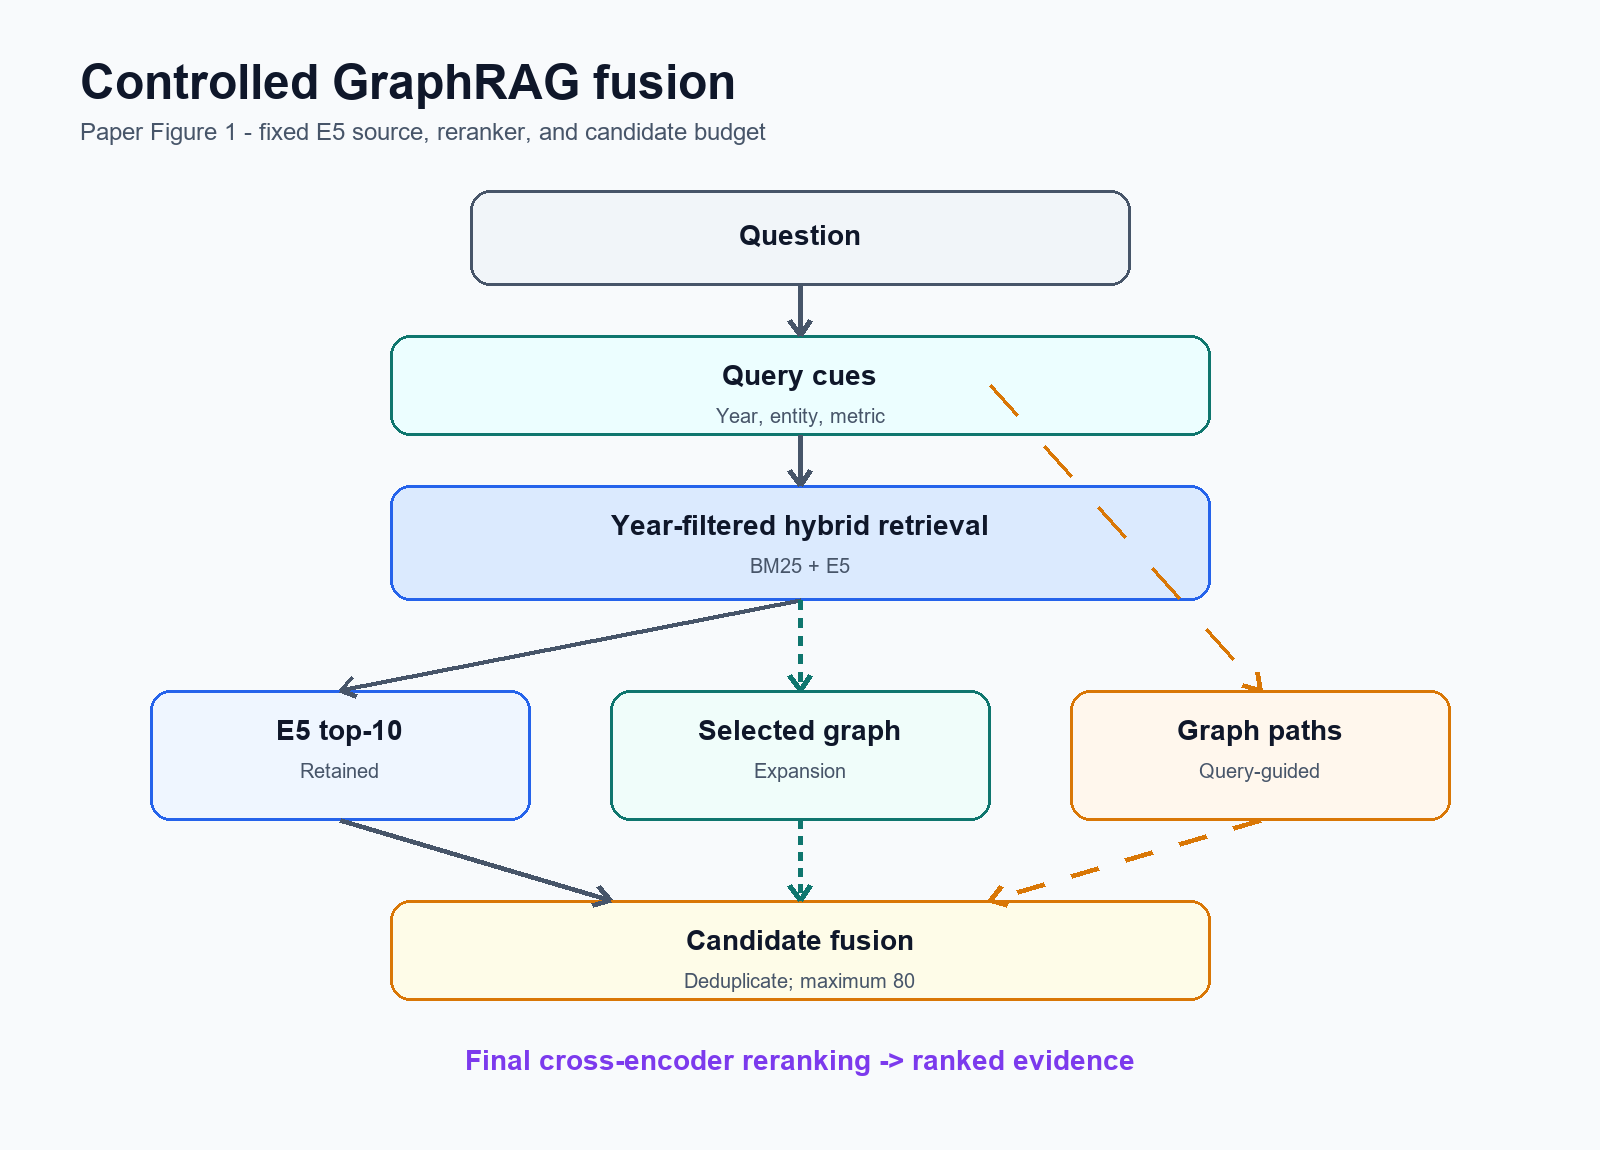
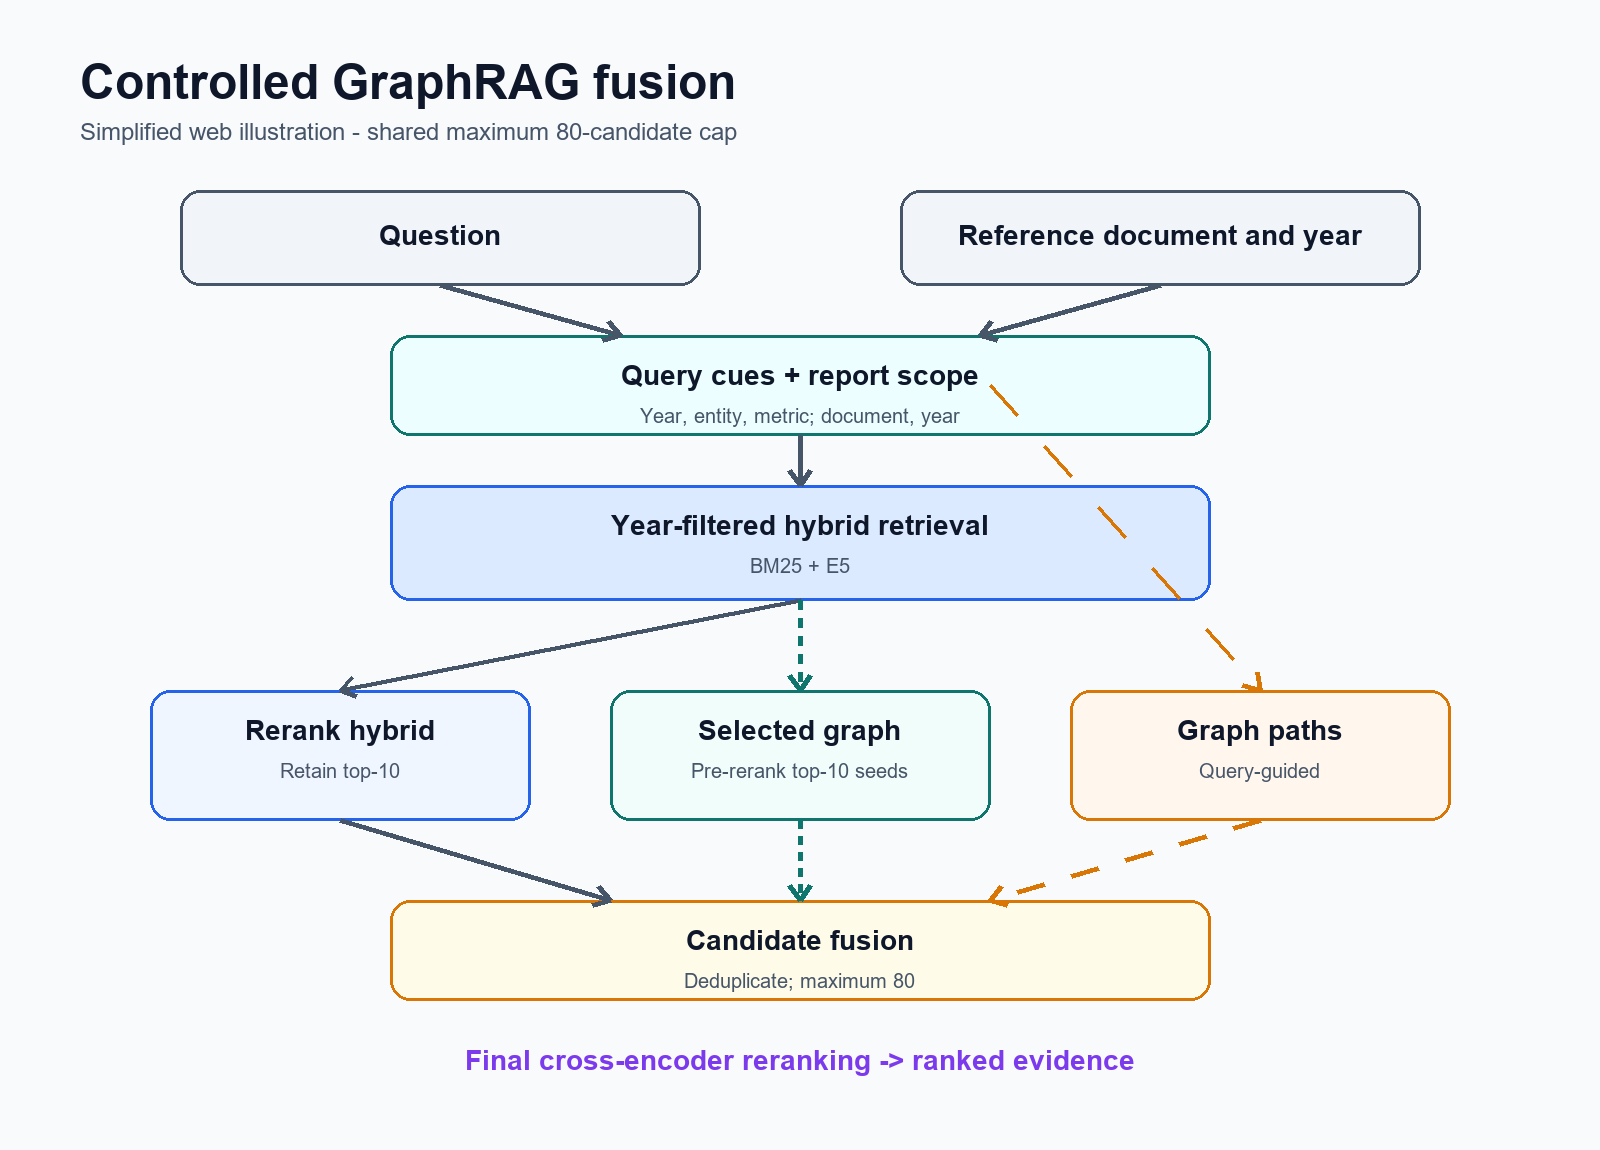
Align GraphRAG project with final paper

diff --git a/components/projects/structure-aware-graph-rag-research.tsx b/components/projects/structure-aware-graph-rag-research.tsx
@@ -69,11 +69,11 @@ export default function StructureAwareGraphRagResearch() {
           description={
             <>
               <p>Standard retrieval finds evidence mainly through <strong>text similarity</strong>. Our GraphRAG approach also uses <strong>document structure</strong>, connecting evidence through shared pages, entities, and financial metrics. The goal is to test whether these graph connections can recover useful evidence that standard retrieval misses.</p>
-              <p className="mt-4">For each question, the benchmark provides the reference report and year. We first run BM25 + E5 hybrid retrieval within this scope and retain its reranked top-10 results. Two graph-based methods then add evidence in different ways: <strong>selected-graph expansion</strong> starts from the hybrid top-10 and follows same-page, same-entity, and same-metric links, while <strong>graph-path retrieval</strong> independently uses entity and metric cues from the question to navigate the graph. The original hybrid results and graph candidates are then combined, deduplicated, and reranked with the same cross-encoder.</p>
+              <p className="mt-4">Hybrid retrieval produces two outputs: its reranked top-10 is retained directly for fusion, while its pre-cross-encoder top-10 provides seeds for selected-graph expansion. Graph-path retrieval independently follows year, entity, and metric cues within the benchmark-provided report scope. The resulting candidates are deduplicated, capped at a maximum of 80, and reranked with the same cross-encoder.</p>
             </>
           }
         />
-        <PaperFigure src="/projects/graph-rag-evidence/paper-controlled-fusion.png" alt="Controlled GraphRAG fusion pipeline" height={1150} caption="Controlled GraphRAG fusion. Selected-graph expansion builds on hybrid retrieval, while graph paths provide an independent, query-guided source of evidence." />
+        <PaperFigure src="/projects/graph-rag-evidence/paper-controlled-fusion.png" alt="Simplified controlled GraphRAG fusion pipeline" height={1150} caption="Simplified web illustration of the controlled fusion pipeline." />
         <div className="mt-6">
           <h3 className="font-heading text-2xl">Why this design?</h3>
           <p className="mt-3 max-w-3xl leading-7 text-muted-foreground">By retaining the original hybrid results, we can directly test whether graph-based retrieval finds <strong>additional useful evidence</strong> that standard retrieval missed, rather than simply replacing a strong baseline.</p>
@@ -82,11 +82,11 @@ export default function StructureAwareGraphRagResearch() {
 
       <section id="rq1">
         <SectionHeader title="RQ1. Which Graph Connections Help?" description={<><p>The full graph evaluates <strong>same-page, same-entity, same-metric, and adjacent-page</strong> relations. The selected graph used in downstream experiments excludes adjacent-page links.</p><p className="mt-4">To understand which relations actually help, we remove one relation at a time while keeping the rest of the retrieval pipeline unchanged.</p></>} />
-        <PaperFigure src="/projects/graph-rag-evidence/paper-graph-schema.png" alt="Typed metadata evidence graph schema" height={1050} caption="The graph connects evidence based on document structure, shared entities, and financial metrics." />
+        <PaperFigure src="/projects/graph-rag-evidence/paper-graph-schema.png" alt="Simplified typed metadata graph schema" height={1050} caption="Simplified web illustration of the typed metadata graph." />
         <div className="mt-8">
           <PaperFigure src="/projects/graph-rag-evidence/paper-edge-ablation.png" alt="Edge-type ablation for Object Recall at 10" height={900} caption="Positive values mean retrieval improves when a relation is removed." />
         </div>
-        <p className="mt-6 leading-7 text-muted-foreground">The results show clear differences between relation types. <strong className="text-foreground">Same-entity links provide the strongest useful signal, while same-metric links provide a smaller benefit. Same-page links show little clear effect on object retrieval. In contrast, adjacent-page links introduce noise: removing them improves retrieval.</strong></p>
+        <p className="mt-6 leading-7 text-muted-foreground">The results show clear differences between relation types. <strong className="text-foreground">Same-entity links provide the strongest useful signal, while same-metric links provide a smaller benefit. Same-page links show mixed effects: removing them slightly improves final Object Recall@10 but reduces candidate recall before reranking. In contrast, adjacent-page links introduce noise: removing them improves retrieval.</strong></p>
         <EvidenceConclusion><strong>Key finding:</strong> GraphRAG benefits from <strong>meaningful connections</strong>, not simply more connections.</EvidenceConclusion>
       </section>
 
@@ -104,11 +104,12 @@ export default function StructureAwareGraphRagResearch() {
           </div>
         </div>
         <p className="mt-6 leading-7 text-muted-foreground">This provides additional evidence that the negative effect of adjacent-page expansion is <strong>consistent across reporting years within the Equinor collection</strong>.</p>
-        <EvidenceConclusion><strong>Scope:</strong> This is a robustness check within one company&apos;s reports, not a separate train/test evaluation or evidence of generalization to other companies or industries.</EvidenceConclusion>
+        <EvidenceConclusion><strong>Scope:</strong> This is a held-out-year robustness check for the adjacent-page edge policy. It is not an untouched test split for every experiment, nor does it establish generalization beyond the Equinor collection.</EvidenceConclusion>
       </section>
 
       <section id="rq2">
         <SectionHeader title="RQ2. What Does Each Graph Source Add?" description={<p>We compare the same hybrid baseline with <strong>selected-graph candidates, graph-path candidates, and both together</strong>.</p>} />
+        <p className="mb-6 leading-7 text-muted-foreground">Replacement-style graph expansion does not outperform the strongest hybrid baseline. Selected replacement-style GraphRAG reaches 82.9% Object Recall@10, compared with 83.8% for Hybrid E5 + rerank, and reduces Page Recall@10 from 90.8% to 87.6%. This motivates retained-candidate fusion, which preserves the strong hybrid results while adding graph-derived candidates.</p>
         <div className="overflow-hidden rounded-2xl border bg-background">
           <div className="overflow-x-auto">
             <table className="w-full min-w-[720px] text-left text-sm">
@@ -129,6 +130,7 @@ export default function StructureAwareGraphRagResearch() {
           </div>
         </div>
         <p className="mt-6 leading-7 text-muted-foreground">Adding selected-graph candidates improves Object Recall@10 from 83.8% to 85.6% (<code>p=0.016</code>). Adding graph paths on top provides little additional object-recall gain, reaching 85.9% (<code>p=0.707</code>), but raises Page Recall@10 from 90.3% to 91.8% (<code>p=0.012</code>). These uncorrected results should be interpreted cautiously.</p>
+        <p className="mt-4 leading-7 text-muted-foreground">Selected-graph fusion recovers 18 object hits missed by hybrid retrieval but loses 6 previous hits, producing a net gain of 12 questions. Adding paths on top recovers 10 object hits and loses 8; at the page level, however, paths recover 13 misses while losing only 3 hits. Graph candidates therefore change candidate competition rather than monotonically adding correct evidence.</p>
         <EvidenceConclusion><strong>Key finding:</strong> Selected graph mainly helps recover missing evidence objects, while graph paths contribute more to <strong>page-level coverage</strong> than exact-object recovery.</EvidenceConclusion>
       </section>
 
@@ -139,9 +141,9 @@ export default function StructureAwareGraphRagResearch() {
           <div className="mt-5 overflow-hidden rounded-2xl border bg-background">
             <div className="overflow-x-auto">
               <table className="w-full min-w-[560px] text-left text-sm">
-                <thead className="bg-blue-700 text-white"><tr><th scope="col" className="px-5 py-4 font-semibold">Retrieval result</th><th scope="col" className="px-5 py-4 text-right font-semibold">Hybrid E5</th><th scope="col" className="px-5 py-4 text-right font-semibold">E5 + Graph + Paths</th></tr></thead>
+                <thead className="bg-blue-700 text-white"><tr><th scope="col" className="px-5 py-4 font-semibold">Retrieval result</th><th scope="col" className="px-5 py-4 text-right font-semibold">Hybrid E5</th><th scope="col" className="px-5 py-4 text-right font-semibold">Retained E5 + Graph + Paths</th></tr></thead>
                 <tbody className="divide-y">
-                  <tr><th scope="row" className="px-5 py-4 font-medium">At least one evidence object found</th><td className="px-5 py-4 text-right font-mono font-bold tabular-nums">100.0%</td><td className="px-5 py-4 text-right font-mono tabular-nums">—</td></tr>
+                  <tr><th scope="row" className="px-5 py-4 font-medium">At least one evidence object found</th><td className="px-5 py-4 text-right font-mono font-bold tabular-nums">100.0%</td><td className="px-5 py-4 text-right font-mono font-bold tabular-nums">100.0%</td></tr>
                   <tr className="bg-muted/35"><th scope="row" className="px-5 py-4 font-medium">All evidence objects found</th><td className="px-5 py-4 text-right font-mono tabular-nums">67.8%</td><td className="px-5 py-4 text-right font-mono font-bold tabular-nums">72.2%</td></tr>
                   <tr><th scope="row" className="px-5 py-4 font-medium">All evidence pages found</th><td className="px-5 py-4 text-right font-mono tabular-nums">71.1%</td><td className="px-5 py-4 text-right font-mono font-bold tabular-nums">74.4%</td></tr>
                 </tbody>
@@ -156,7 +158,7 @@ export default function StructureAwareGraphRagResearch() {
           <div className="mt-5 overflow-hidden rounded-2xl border bg-background">
             <div className="overflow-x-auto">
               <table className="w-full min-w-[560px] text-left text-sm">
-                <thead className="bg-blue-700 text-white"><tr><th scope="col" className="px-5 py-4 font-semibold">Retrieval result</th><th scope="col" className="px-5 py-4 text-right font-semibold">Hybrid E5</th><th scope="col" className="px-5 py-4 text-right font-semibold">E5 + Graph + Paths</th></tr></thead>
+                <thead className="bg-blue-700 text-white"><tr><th scope="col" className="px-5 py-4 font-semibold">Retrieval result</th><th scope="col" className="px-5 py-4 text-right font-semibold">Hybrid E5</th><th scope="col" className="px-5 py-4 text-right font-semibold">Retained E5 + Graph + Paths</th></tr></thead>
                 <tbody className="divide-y">
                   <tr><th scope="row" className="px-5 py-4 font-medium">Evidence object found</th><td className="px-5 py-4 text-right font-mono tabular-nums">41.1%</td><td className="px-5 py-4 text-right font-mono font-bold tabular-nums">50.0%</td></tr>
                   <tr className="bg-muted/35"><th scope="row" className="px-5 py-4 font-medium">Evidence page found</th><td className="px-5 py-4 text-right font-mono tabular-nums">73.3%</td><td className="px-5 py-4 text-right font-mono font-bold tabular-nums">78.9%</td></tr>
@@ -167,6 +169,13 @@ export default function StructureAwareGraphRagResearch() {
           <p className="mt-5 leading-7 text-muted-foreground">Graph and path candidates improve both object and page coverage, but a substantial gap remains between finding the correct page and locating the exact evidence object within it.</p>
           <EvidenceConclusion><strong>Key finding:</strong> For visual and layout questions, reaching the right page does not guarantee <strong>precise evidence grounding</strong>. Richer visual or multimodal retrieval may be needed to close this gap.</EvidenceConclusion>
         </div>
+      </section>
+
+      <section>
+        <SectionHeader
+          title="Scope and Limitations"
+          description={<p>The study uses English annual reports from one company in the energy sector. The graph relies on zero-shot GLiNER entity extraction and pattern-based metric categories rather than a manually curated knowledge graph. The reported relation effects may partly reflect Equinor&apos;s recurring terminology and reporting structure and should be validated across companies and industries. Statistical tests are based on paired bootstrap estimates, and reported p-values are not corrected for multiple comparisons.</p>}
+        />
       </section>
 
     </div>

diff --git a/config/projects.ts b/config/projects.ts
@@ -357,11 +357,11 @@ export const Projects: ProjectInterface[] = [
   {
     id: "structure-aware-graph-rag",
     companyName:
-      "Structure-Aware Graph Retrieval for Evidence Grounding over Long Annual Reports",
+      "When Does GraphRAG Help? A Controlled Study of Evidence Localization in Long Annual Reports",
     type: "Research",
     category: ["Research", "RAG", "Information Retrieval", "Evaluation"],
     shortDescription:
-      "Controlled GraphRAG research showing that selected graph expansion improves exact evidence recovery, while graph paths add complementary page coverage over long annual reports.",
+      "A controlled study of when graph structure improves evidence localization in long annual reports, separating object recovery, page coverage, and candidate competition.",
     techStack: [
       "Python",
       "GraphRAG",
@@ -380,14 +380,14 @@ export const Projects: ProjectInterface[] = [
     companyLogoImg: "/projects/graph-rag-evidence/cover.png",
     keyMetrics: [
       { value: "85.9%", label: "Object Recall@10" },
-      { value: "91.7%", label: "Page Recall@10" },
-      { value: "52,278", label: "Graph nodes" },
+      { value: "91.8%", label: "Page Recall@10" },
+      { value: "48,292", label: "Graph nodes" },
     ],
     pagesInfoArr: [
       {
         title: "Typed Evidence Graph",
         description:
-          "The controlled fusion design retains the same E5 hybrid retrieval output and adds selected graph expansion, graph-path candidates, or both before cross-encoder reranking.",
+          "The controlled fusion design retains reranked hybrid evidence and adds selected-graph expansion, graph-path candidates, or both under a common maximum 80-candidate cap.",
         imgArr: [
           "/projects/graph-rag-evidence/paper-controlled-fusion.png",
         ],

diff --git a/config/publications.ts b/config/publications.ts
@@ -90,7 +90,7 @@ export const publications: PublicationInterface[] = [
   },
   {
     title:
-      "Structure-Aware Graph Retrieval for Evidence Grounding over Long Annual Reports",
+      "When Does GraphRAG Help? A Controlled Study of Evidence Localization in Long Annual Reports",
     authors: "Xiaojing Yang, Zhihan Li",
     status: "In Preparation",
     venue: "TBD",

diff --git a/scripts/generate_graph_rag_figures.py b/scripts/generate_graph_rag_figures.py
@@ -57,10 +57,11 @@ def save_pipeline():
     img = Image.new("RGB", (1600, 1150), LIGHT)
     d = ImageDraw.Draw(img)
     d.text((80, 55), "Controlled GraphRAG fusion", font=font(48, True), fill=NAVY)
-    d.text((80, 118), "Paper Figure 1 - fixed E5 source, reranker, and candidate budget", font=font(24), fill=SLATE)
+    d.text((80, 118), "Simplified web illustration - shared maximum 80-candidate cap", font=font(24), fill=SLATE)
 
     boxes = {
-        "q": (470, 190, 1130, 285),
+        "q": (180, 190, 700, 285),
+        "scope": (900, 190, 1420, 285),
         "cues": (390, 335, 1210, 435),
         "hybrid": (390, 485, 1210, 600),
         "base": (150, 690, 530, 820),
@@ -69,14 +70,16 @@ def save_pipeline():
         "fusion": (390, 900, 1210, 1000),
     }
     rounded_box(d, boxes["q"], "#f1f5f9", SLATE, "Question")
-    rounded_box(d, boxes["cues"], "#ecfeff", TEAL, "Query cues", "Year, entity, metric")
+    rounded_box(d, boxes["scope"], "#f1f5f9", SLATE, "Reference document and year")
+    rounded_box(d, boxes["cues"], "#ecfeff", TEAL, "Query cues + report scope", "Year, entity, metric; document, year")
     rounded_box(d, boxes["hybrid"], "#dbeafe", BLUE, "Year-filtered hybrid retrieval", "BM25 + E5")
-    rounded_box(d, boxes["base"], "#eff6ff", BLUE, "E5 top-10", "Retained")
-    rounded_box(d, boxes["graph"], "#f0fdfa", TEAL, "Selected graph", "Expansion")
+    rounded_box(d, boxes["base"], "#eff6ff", BLUE, "Rerank hybrid", "Retain top-10")
+    rounded_box(d, boxes["graph"], "#f0fdfa", TEAL, "Selected graph", "Pre-rerank top-10 seeds")
     rounded_box(d, boxes["path"], "#fff7ed", ORANGE, "Graph paths", "Query-guided")
     rounded_box(d, boxes["fusion"], "#fefce8", ORANGE, "Candidate fusion", "Deduplicate; maximum 80")
 
-    arrow(d, (800, 285), (800, 335))
+    arrow(d, (440, 285), (620, 335))
+    arrow(d, (1160, 285), (980, 335))
     arrow(d, (800, 435), (800, 485))
     arrow(d, (800, 600), (340, 690))
     arrow(d, (800, 600), (800, 690), color=TEAL, dashed=True)
@@ -92,7 +95,7 @@ def save_graph_schema():
     img = Image.new("RGB", (1600, 1050), LIGHT)
     d = ImageDraw.Draw(img)
     d.text((80, 55), "Typed metadata evidence graph", font=font(48, True), fill=NAVY)
-    d.text((80, 118), "Paper Figure 2 - containment hierarchy with typed evidence links", font=font(24), fill=SLATE)
+    d.text((80, 118), "Simplified web illustration of the typed metadata graph", font=font(24), fill=SLATE)
 
     rounded_box(d, (540, 180, 1060, 275), "#f3e8ff", PURPLE, "2022 Annual Report")
     rounded_box(d, (630, 325, 970, 410), "#fff7ed", ORANGE, "Year 2022")
